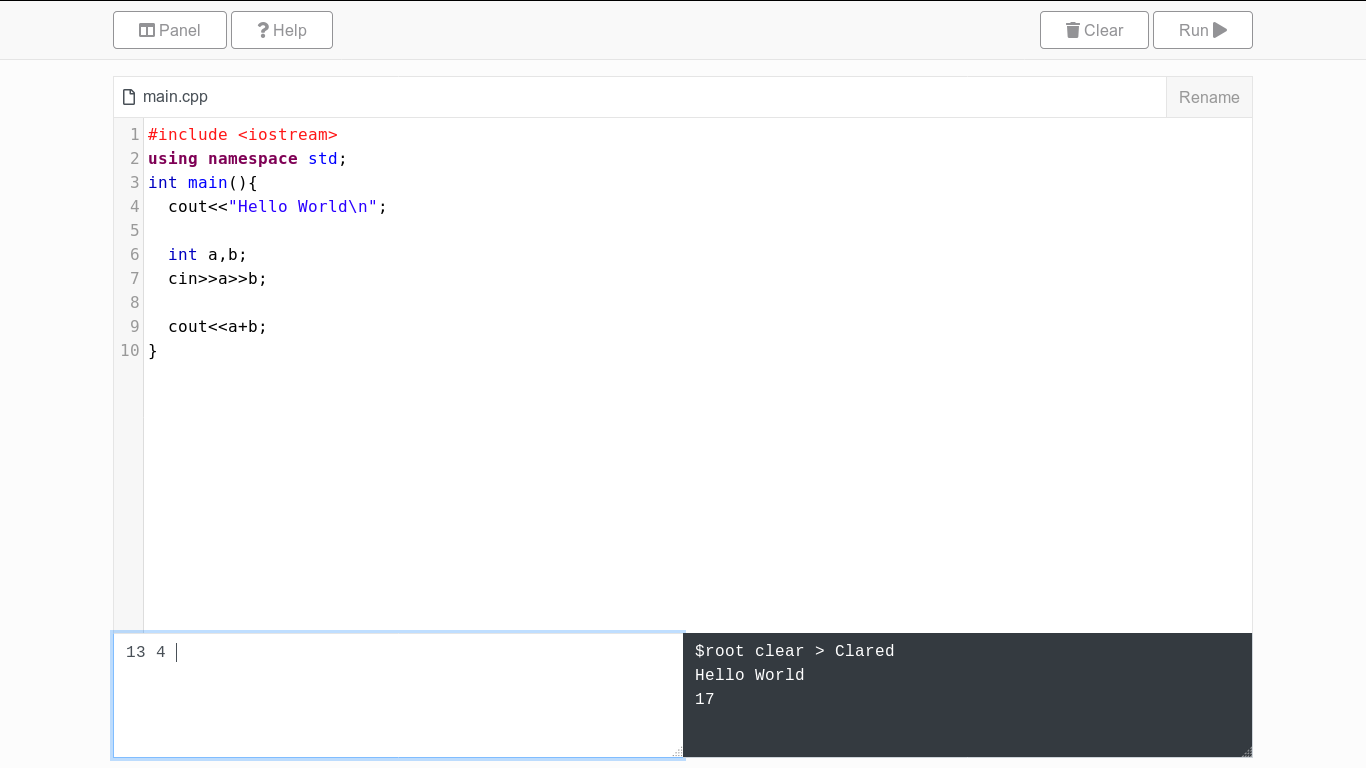
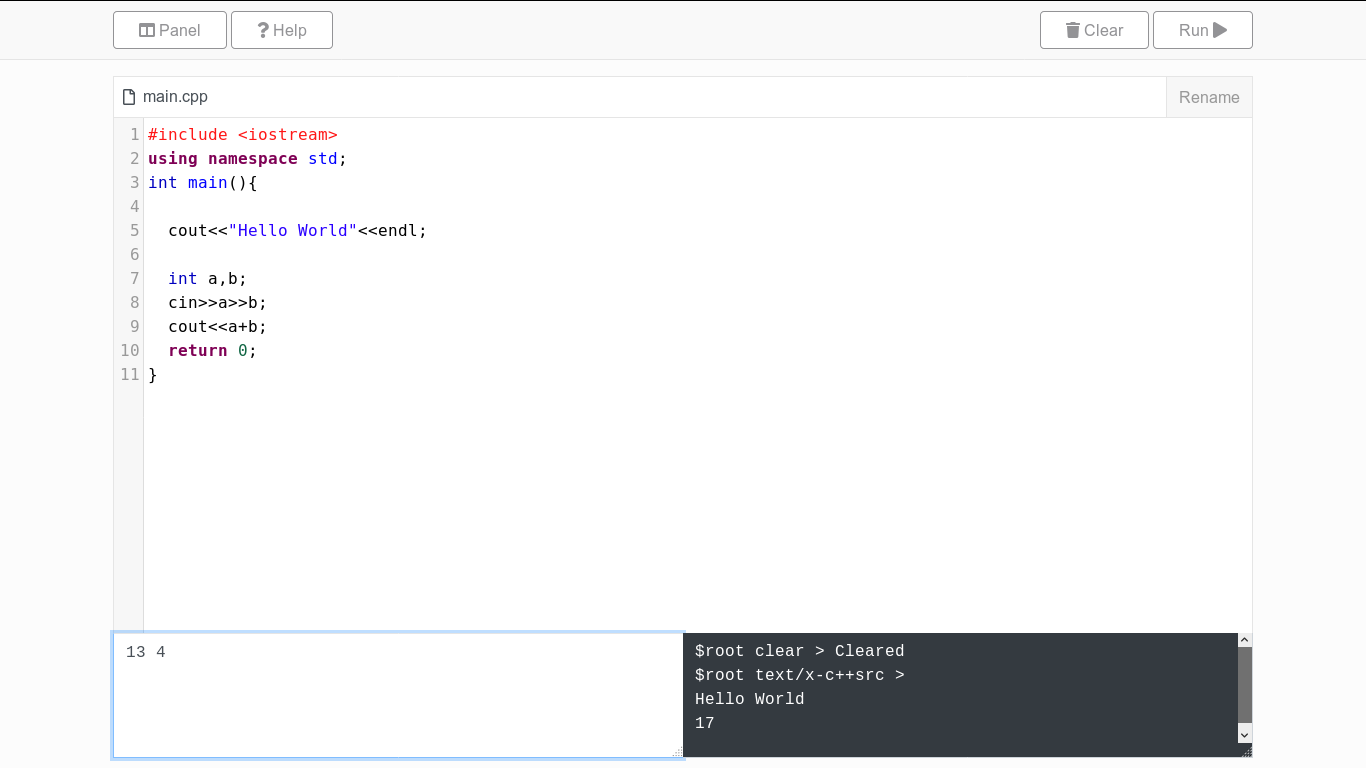
Fixed

diff --git a/editor/index.html b/editor/index.html
@@ -240,7 +240,7 @@
   		if (mode) {
     		editor.setOption("mode", spec);
     		CodeMirror.autoLoadMode(editor, mode);
-   			$("#output").append('$root '+spec+'\nSetted successfully\n');
+   			$("#output").append('$root '+spec+' > \n');
    			showEnd($('#output'));
   		} 
   		else {
@@ -263,7 +263,7 @@
 		});
 
 		$( "#clear" ).click(function() {
-  			$("#output").html('$root clear > Clared\n');
+  			$("#output").html('$root clear > Cleared\n');
 		});
 
 	/**
